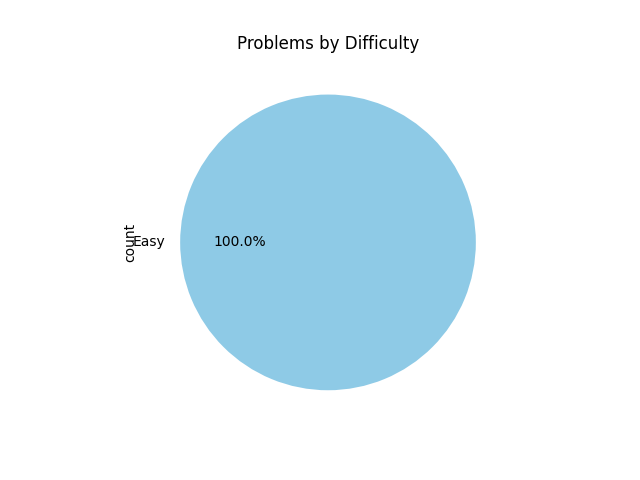
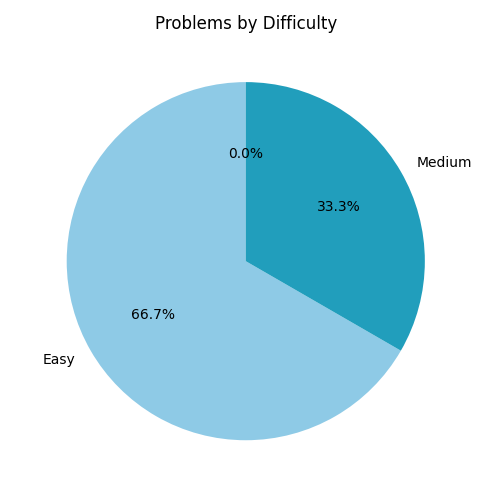
Update LeetCode stats and charts

diff --git a/README.md b/README.md
@@ -1,7 +1,7 @@
 # Daily LeetCode Practice 🧑💻
 
 ## 📊 Summary
-# Total problems solved: 2
+# Total problems solved: 3
 
   ![Difficulty Pie](charts/difficulty_pie.png)
   ![Topics Bar](charts/topics_bar.png)
